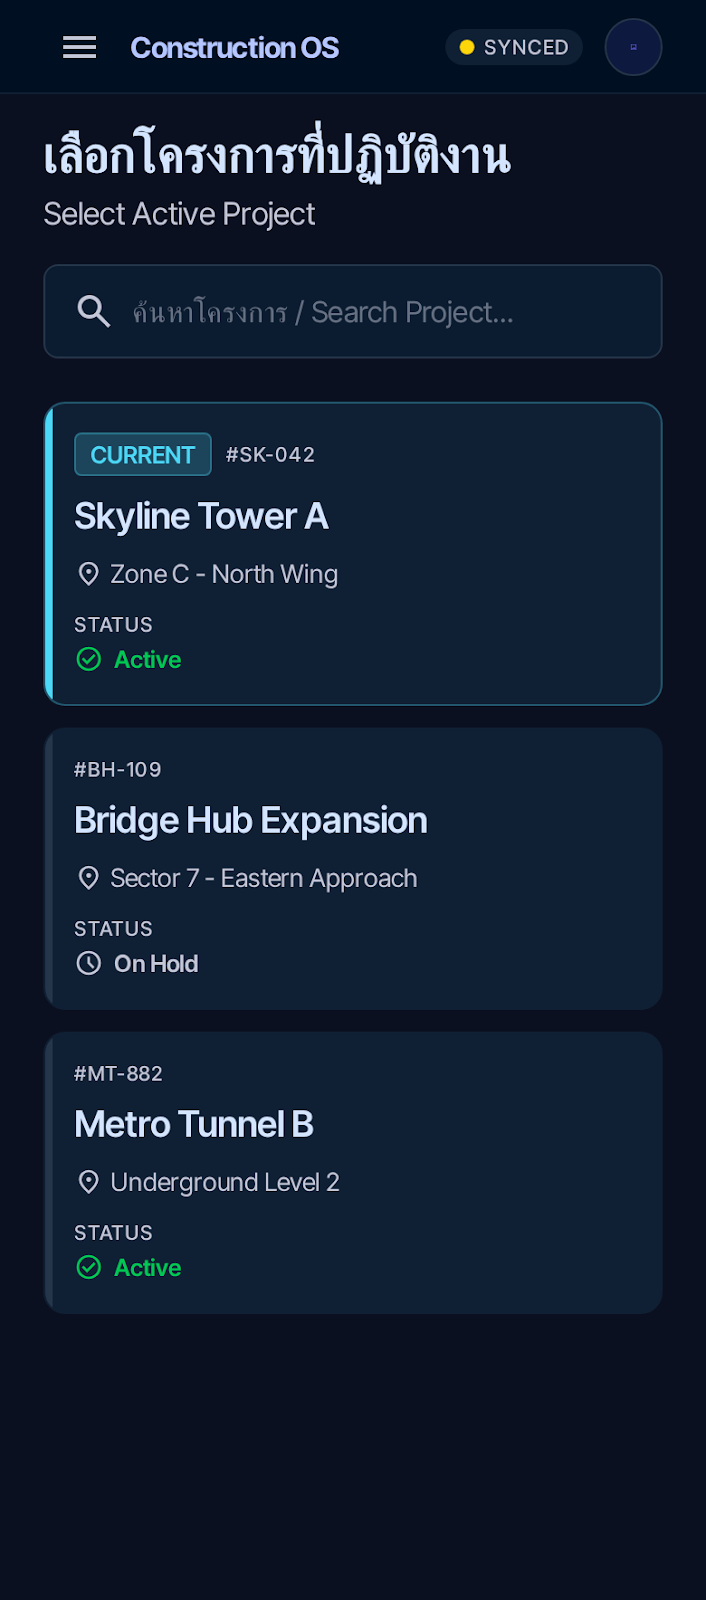
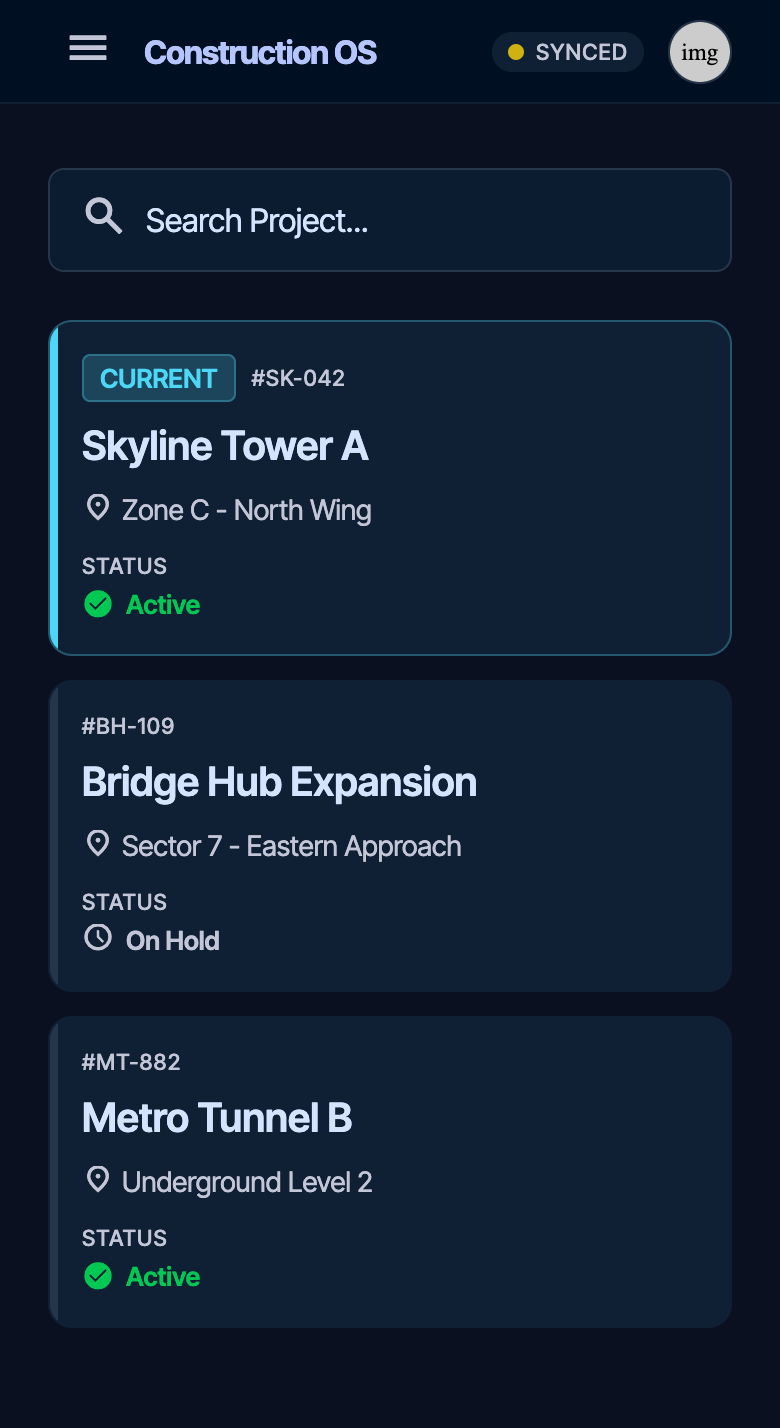
update: mockup ui

diff --git a/mockup/mobile/05_site_worker/01_home/02_sw_quick_actions/code.html b/mockup/mobile/05_site_worker/01_home/02_sw_quick_actions/code.html
@@ -1,4 +1,4 @@
-<!DOCTYPE html><html class="dark" lang="en"><head>
+<!DOCTYPE html><html class="dark" lang="en" style=""><head>
 <meta charset="utf-8">
 <meta content="width=device-width, initial-scale=1.0" name="viewport">
 <title>Quick Action Menu</title>
@@ -120,7 +120,7 @@
 <!-- TopAppBar -->
 <header class="w-full top-0 bg-surface flex items-center px-edge-mobile h-touch-target z-50 sticky border-b border-outline-variant/10">
 <button aria-label="Close" class="hover:bg-surface-bright scale-95 transition-transform p-space-2 rounded-full mr-space-4">
-<span class="material-symbols-outlined text-primary font-[300]" style="font-variation-settings: 'FILL' 0;">close</span>
+<span class="material-symbols-outlined text-primary font-[300]" style="font-variation-settings: &quot;FILL&quot; 0;">close</span>
 </button>
 <div class="flex-1">
 <h1 class="font-h1-web text-h1-web-mobile text-primary tracking-tight font-extrabold">Quick Actions</h1>
@@ -131,14 +131,11 @@
 </header>
 <!-- Main Content Canvas -->
 <main class="flex-1 flex flex-col px-edge-mobile py-space-4 gap-space-4 mb-[90px]">
-<div class="mb-space-4">
-<h2 class="font-h2-web text-h2-web text-on-surface mb-space-1">เมนูด่วน</h2>
-<p class="font-body-mobile text-body-mobile text-on-surface-variant">Select an action to proceed.</p>
-</div>
+
 <!-- Action Card 1: Report Issue -->
 <button class="w-full text-left bg-surface-container hover:bg-surface-variant transition-colors rounded-xl border border-outline-variant/20 p-space-4 flex items-start gap-space-4 shadow-lg active:scale-95 duration-200">
 <div class="w-12 h-12 rounded-full bg-mobile-warning/20 flex items-center justify-center shrink-0 border border-mobile-warning/20">
-<span class="material-symbols-outlined text-mobile-warning" style="font-variation-settings: 'FILL' 1;">warning</span>
+<span class="material-symbols-outlined text-mobile-warning" style="font-variation-settings: &quot;FILL&quot; 1;">warning</span>
 </div>
 <div class="flex-1 flex flex-col justify-center min-h-[48px]">
 <h3 class="font-label-mobile text-label-mobile text-on-surface mb-1">รายงานปัญหาด่วน</h3>
@@ -148,7 +145,7 @@
 <!-- Action Card 2: Safety Checklist -->
 <button class="w-full text-left bg-surface-container hover:bg-surface-variant transition-colors rounded-xl border border-outline-variant/20 p-space-4 flex items-start gap-space-4 shadow-lg active:scale-95 duration-200">
 <div class="w-12 h-12 rounded-full bg-mobile-success/20 flex items-center justify-center shrink-0 border border-mobile-success/20">
-<span class="material-symbols-outlined text-mobile-success" style="font-variation-settings: 'FILL' 1;">health_and_safety</span>
+<span class="material-symbols-outlined text-mobile-success" style="font-variation-settings: &quot;FILL&quot; 1;">health_and_safety</span>
 </div>
 <div class="flex-1 flex flex-col justify-center min-h-[48px]">
 <h3 class="font-label-mobile text-label-mobile text-on-surface mb-1">เช็คลิสต์ความปลอดภัย</h3>
@@ -158,7 +155,7 @@
 <!-- Action Card 3: Log Activity -->
 <button class="w-full text-left bg-surface-container hover:bg-surface-variant transition-colors rounded-xl border border-outline-variant/20 p-space-4 flex items-start gap-space-4 shadow-lg active:scale-95 duration-200">
 <div class="w-12 h-12 rounded-full bg-mobile-primary/20 flex items-center justify-center shrink-0 border border-mobile-primary/20">
-<span class="material-symbols-outlined text-mobile-primary" style="font-variation-settings: 'FILL' 1;">edit_document</span>
+<span class="material-symbols-outlined text-mobile-primary" style="font-variation-settings: &quot;FILL&quot; 1;">edit_document</span>
 </div>
 <div class="flex-1 flex flex-col justify-center min-h-[48px]">
 <h3 class="font-label-mobile text-label-mobile text-on-surface mb-1">บันทึกกิจกรรมประจำวัน</h3>
@@ -170,22 +167,24 @@
 <!-- Note: While Quick Actions is technically a transactional overlay in many apps, the prompt explicitly requested "The Bottom Navigation for Site Worker should be visible." -->
 <nav class="md:hidden fixed bottom-0 w-full z-50 pb-safe bg-surface-container-low border-t border-outline-variant/20 shadow-lg font-label-mobile text-label-mobile flex justify-around items-center px-4 h-[72px]">
 <a class="flex flex-col items-center justify-center text-on-surface-variant hover:bg-surface-variant hover:text-on-surface scale-95 duration-200 p-2 rounded-lg" href="#">
-<span class="material-symbols-outlined mb-1" style="font-variation-settings: 'FILL' 0;">dashboard</span>
+<span class="material-symbols-outlined mb-1" style="font-variation-settings: &quot;FILL&quot; 0;">dashboard</span>
 <span class="">Dashboard</span>
 </a>
 <a class="flex flex-col items-center justify-center text-on-surface-variant hover:bg-surface-variant hover:text-on-surface scale-95 duration-200 p-2 rounded-lg" href="#">
-<span class="material-symbols-outlined mb-1" style="font-variation-settings: 'FILL' 0;">assignment</span>
+<span class="material-symbols-outlined mb-1" style="font-variation-settings: &quot;FILL&quot; 0;">assignment</span>
 <span class="">Tasks</span>
 </a>
 <a class="flex flex-col items-center justify-center text-on-surface-variant hover:bg-surface-variant hover:text-on-surface scale-95 duration-200 p-2 rounded-lg" href="#">
-<span class="material-symbols-outlined mb-1" style="font-variation-settings: 'FILL' 0;">history</span>
+<span class="material-symbols-outlined mb-1" style="font-variation-settings: &quot;FILL&quot; 0;">history</span>
 <span class="">Log</span>
 </a>
 <a class="flex flex-col items-center justify-center text-on-surface-variant hover:bg-surface-variant hover:text-on-surface scale-95 duration-200 p-2 rounded-lg" href="#">
-<span class="material-symbols-outlined mb-1" style="font-variation-settings: 'FILL' 0;">person</span>
+<span class="material-symbols-outlined mb-1" style="font-variation-settings: &quot;FILL&quot; 0;">person</span>
 <span class="">Profile</span>
 </a>
 </nav>
+
+
 
 
 </body></html>

diff --git a/mockup/mobile/05_site_worker/01_home/00_sw_project_selection/code.html b/mockup/mobile/05_site_worker/01_home/00_sw_project_selection/code.html
@@ -1,13 +1,11 @@
-<!DOCTYPE html>
-
-<html class="dark" lang="en"><head>
-<meta charset="utf-8"/>
-<meta content="width=device-width, initial-scale=1.0" name="viewport"/>
+<!DOCTYPE html><html class="dark" lang="en" style=""><head>
+<meta charset="utf-8">
+<meta content="width=device-width, initial-scale=1.0" name="viewport">
 <title>Construction OS - Select Project</title>
 <script src="https://cdn.tailwindcss.com?plugins=forms,container-queries"></script>
-<link href="https://fonts.googleapis.com/css2?family=Material+Symbols+Outlined:wght,FILL@100..700,0..1&amp;display=swap" rel="stylesheet"/>
-<link href="https://fonts.googleapis.com/css2?family=Inter+Tight:wght@400;500;600;700&amp;display=swap" rel="stylesheet"/>
-<link href="https://fonts.googleapis.com/css2?family=Material+Symbols+Outlined:wght,FILL@100..700,0..1&amp;display=swap" rel="stylesheet"/>
+<link href="https://fonts.googleapis.com/css2?family=Material+Symbols+Outlined:wght,FILL@100..700,0..1&amp;display=swap" rel="stylesheet">
+<link href="https://fonts.googleapis.com/css2?family=Inter+Tight:wght@400;500;600;700&amp;display=swap" rel="stylesheet">
+<link href="https://fonts.googleapis.com/css2?family=Material+Symbols+Outlined:wght,FILL@100..700,0..1&amp;display=swap" rel="stylesheet">
 <script id="tailwind-config">
       tailwind.config = {
         darkMode: "class",
@@ -202,18 +200,18 @@
 <span class="font-tiny-web text-tiny-web uppercase text-on-surface-variant">Synced</span>
 </div>
 <button class="w-[32px] h-[32px] rounded-full overflow-hidden border border-surface-container-highest hover:opacity-80 active:scale-95 transition-all">
-<img alt="User Profile" class="w-full h-full object-cover" src="https://www.gstatic.com/labs-code/stitch/stitch-placeholder-300x300.svg"/>
+<img alt="User Profile" class="w-full h-full object-cover" src="https://www.gstatic.com/labs-code/stitch/stitch-placeholder-300x300.svg">
 </button>
 </div>
 </header>
 <main class="flex-1 w-full max-w-3xl mx-auto px-edge-mobile py-space-4 md:py-web-margin flex flex-col gap-space-4">
 <div class="flex flex-col gap-1">
-<h1 class="font-hero-mobile text-hero-mobile text-on-surface">เลือกโครงการที่ปฏิบัติงาน</h1>
-<p class="font-body-mobile text-body-mobile text-on-surface-variant">Select Active Project</p>
+
+
 </div>
 <div class="relative w-full group">
 <span class="material-symbols-outlined absolute left-space-4 top-1/2 -translate-y-1/2 text-on-surface-variant group-focus-within:text-secondary transition-colors">search</span>
-<input class="w-full h-touch-target bg-surface-container-low border border-surface-container-highest focus:border-secondary rounded-lg pl-12 pr-space-4 font-body-mobile text-on-surface placeholder:text-on-surface-variant/50 focus:ring-1 focus:ring-secondary transition-all outline-none" placeholder="ค้นหาโครงการ / Search Project..." type="text"/>
+<input class="w-full h-touch-target bg-surface-container-low border border-surface-container-highest focus:border-secondary rounded-lg pl-12 pr-space-4 font-body-mobile text-on-surface placeholder:text-on-surface-variant/50 focus:ring-1 focus:ring-secondary transition-all outline-none" placeholder="Search Project..." type="text">
 </div>
 <div class="flex flex-col gap-space-3 mt-space-2">
 <!-- Active Project Card -->
@@ -291,4 +289,8 @@
 </button>
 </div>
 </main>
+
+
+
+
 </body></html>
